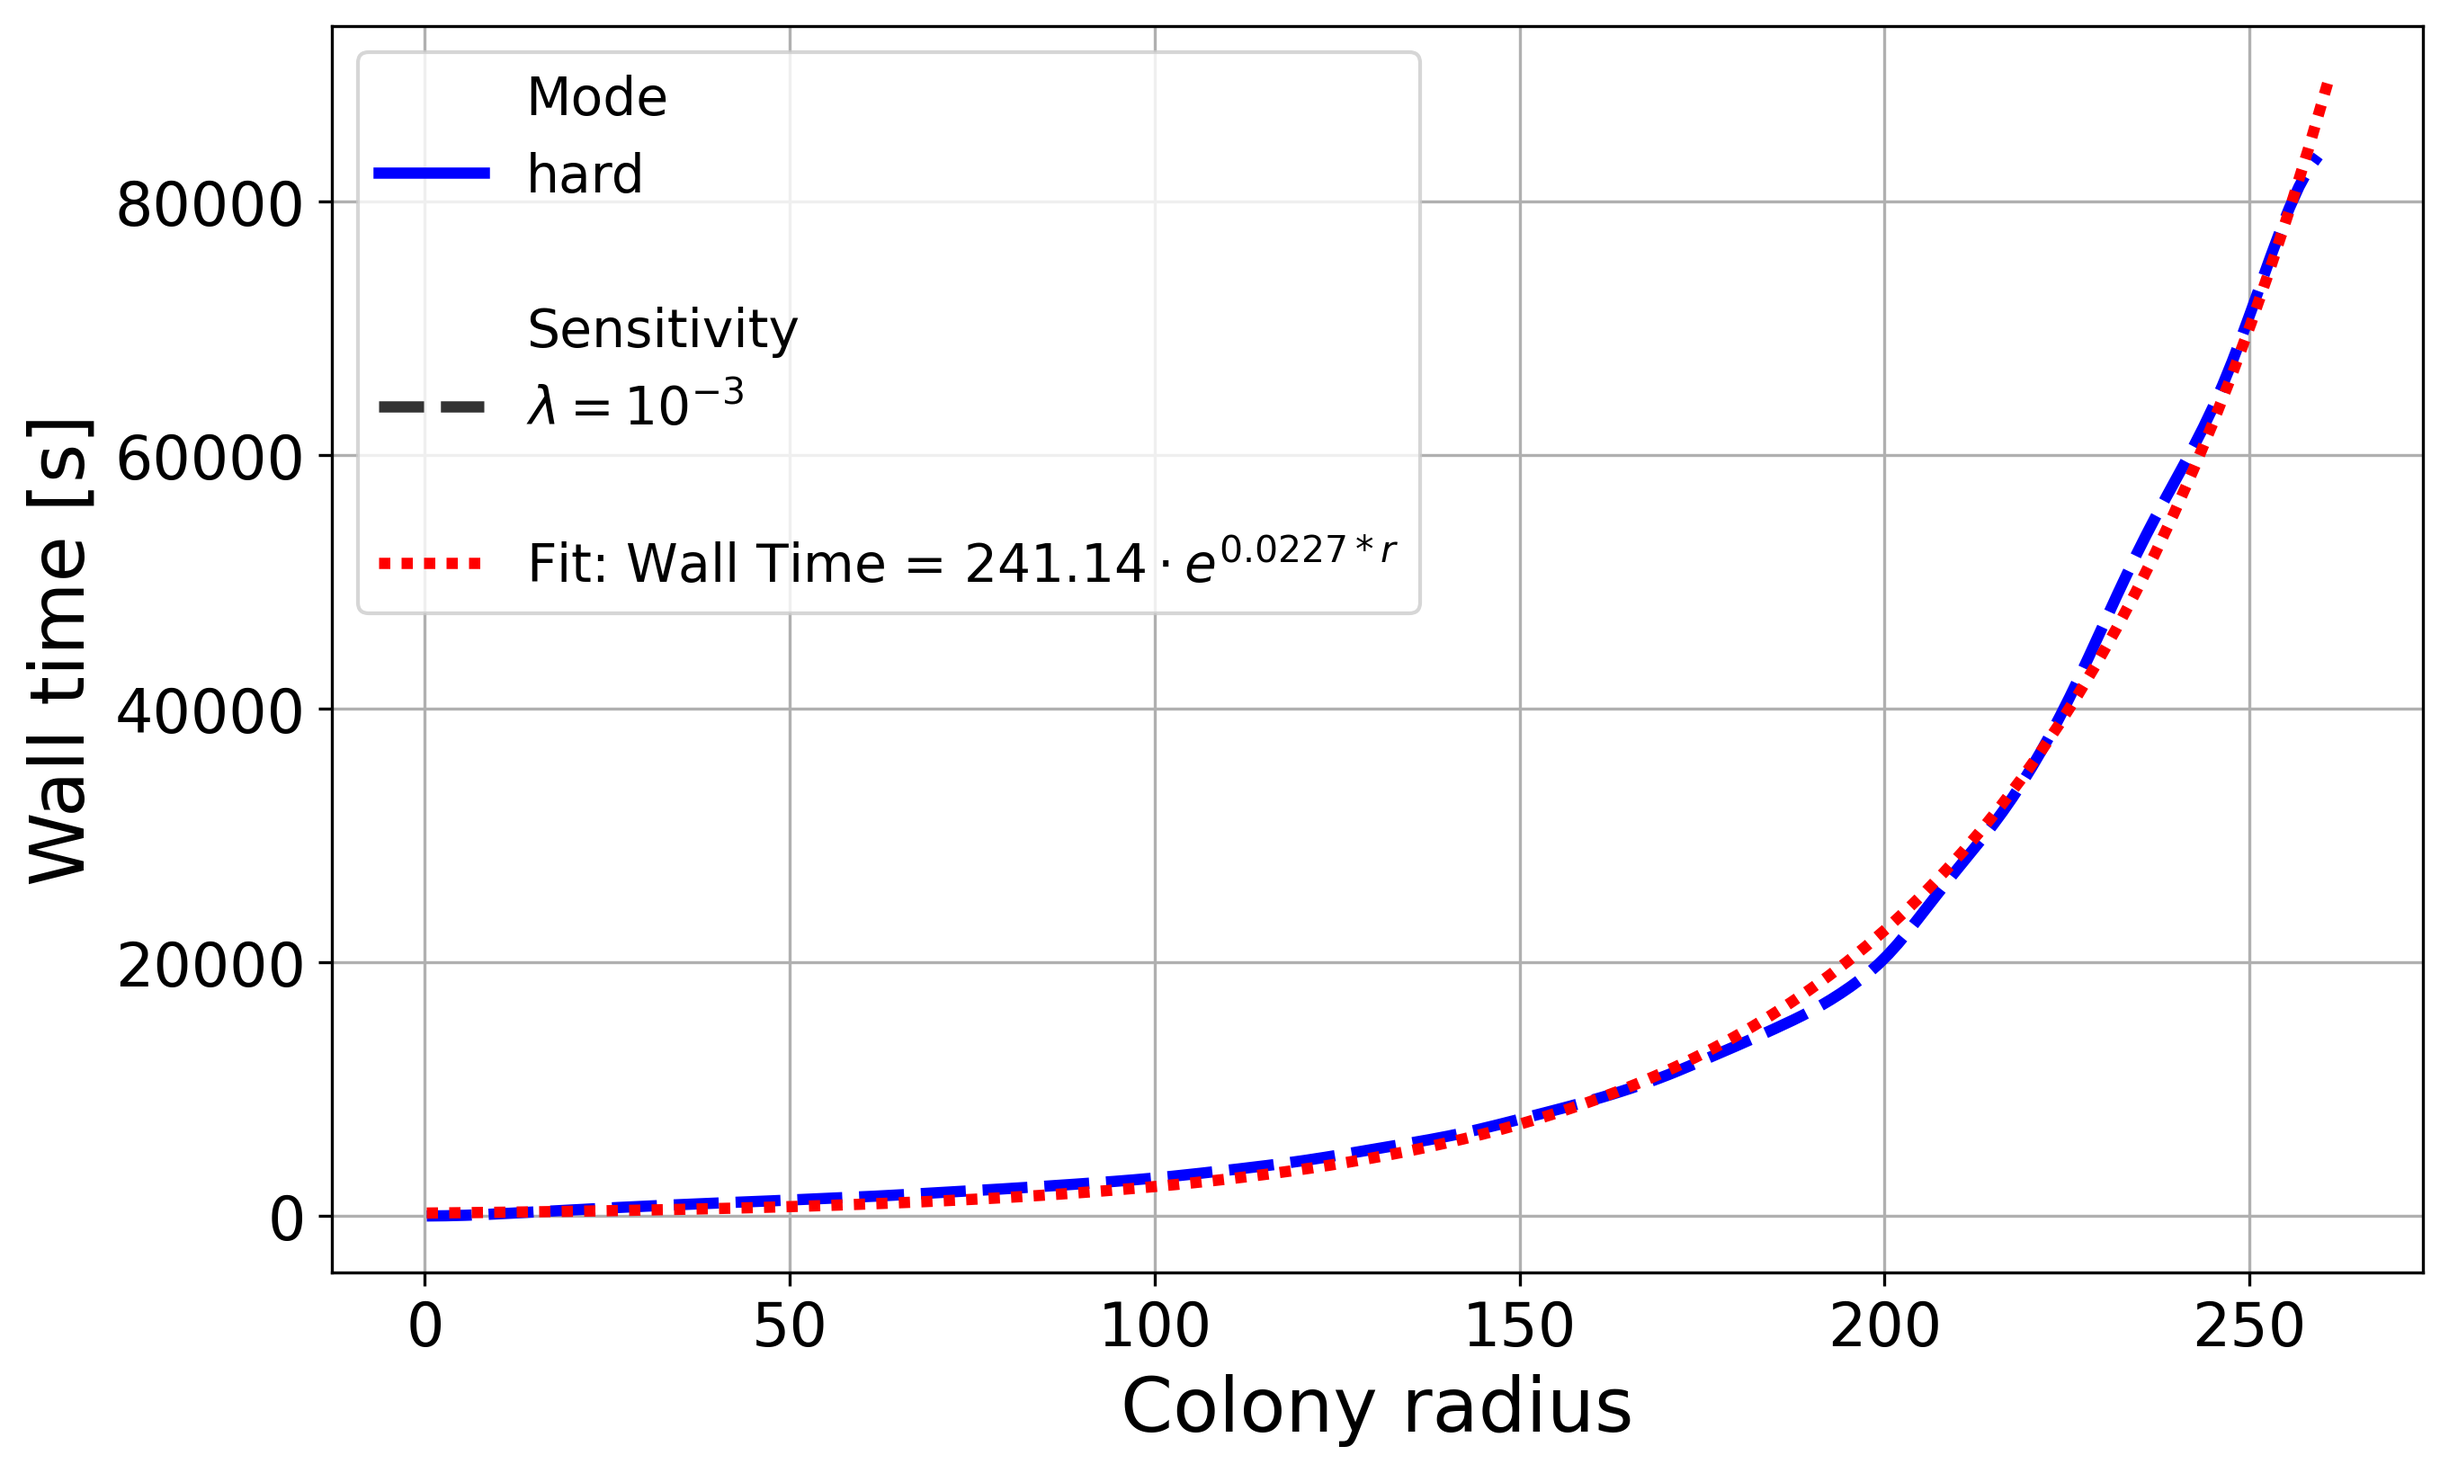
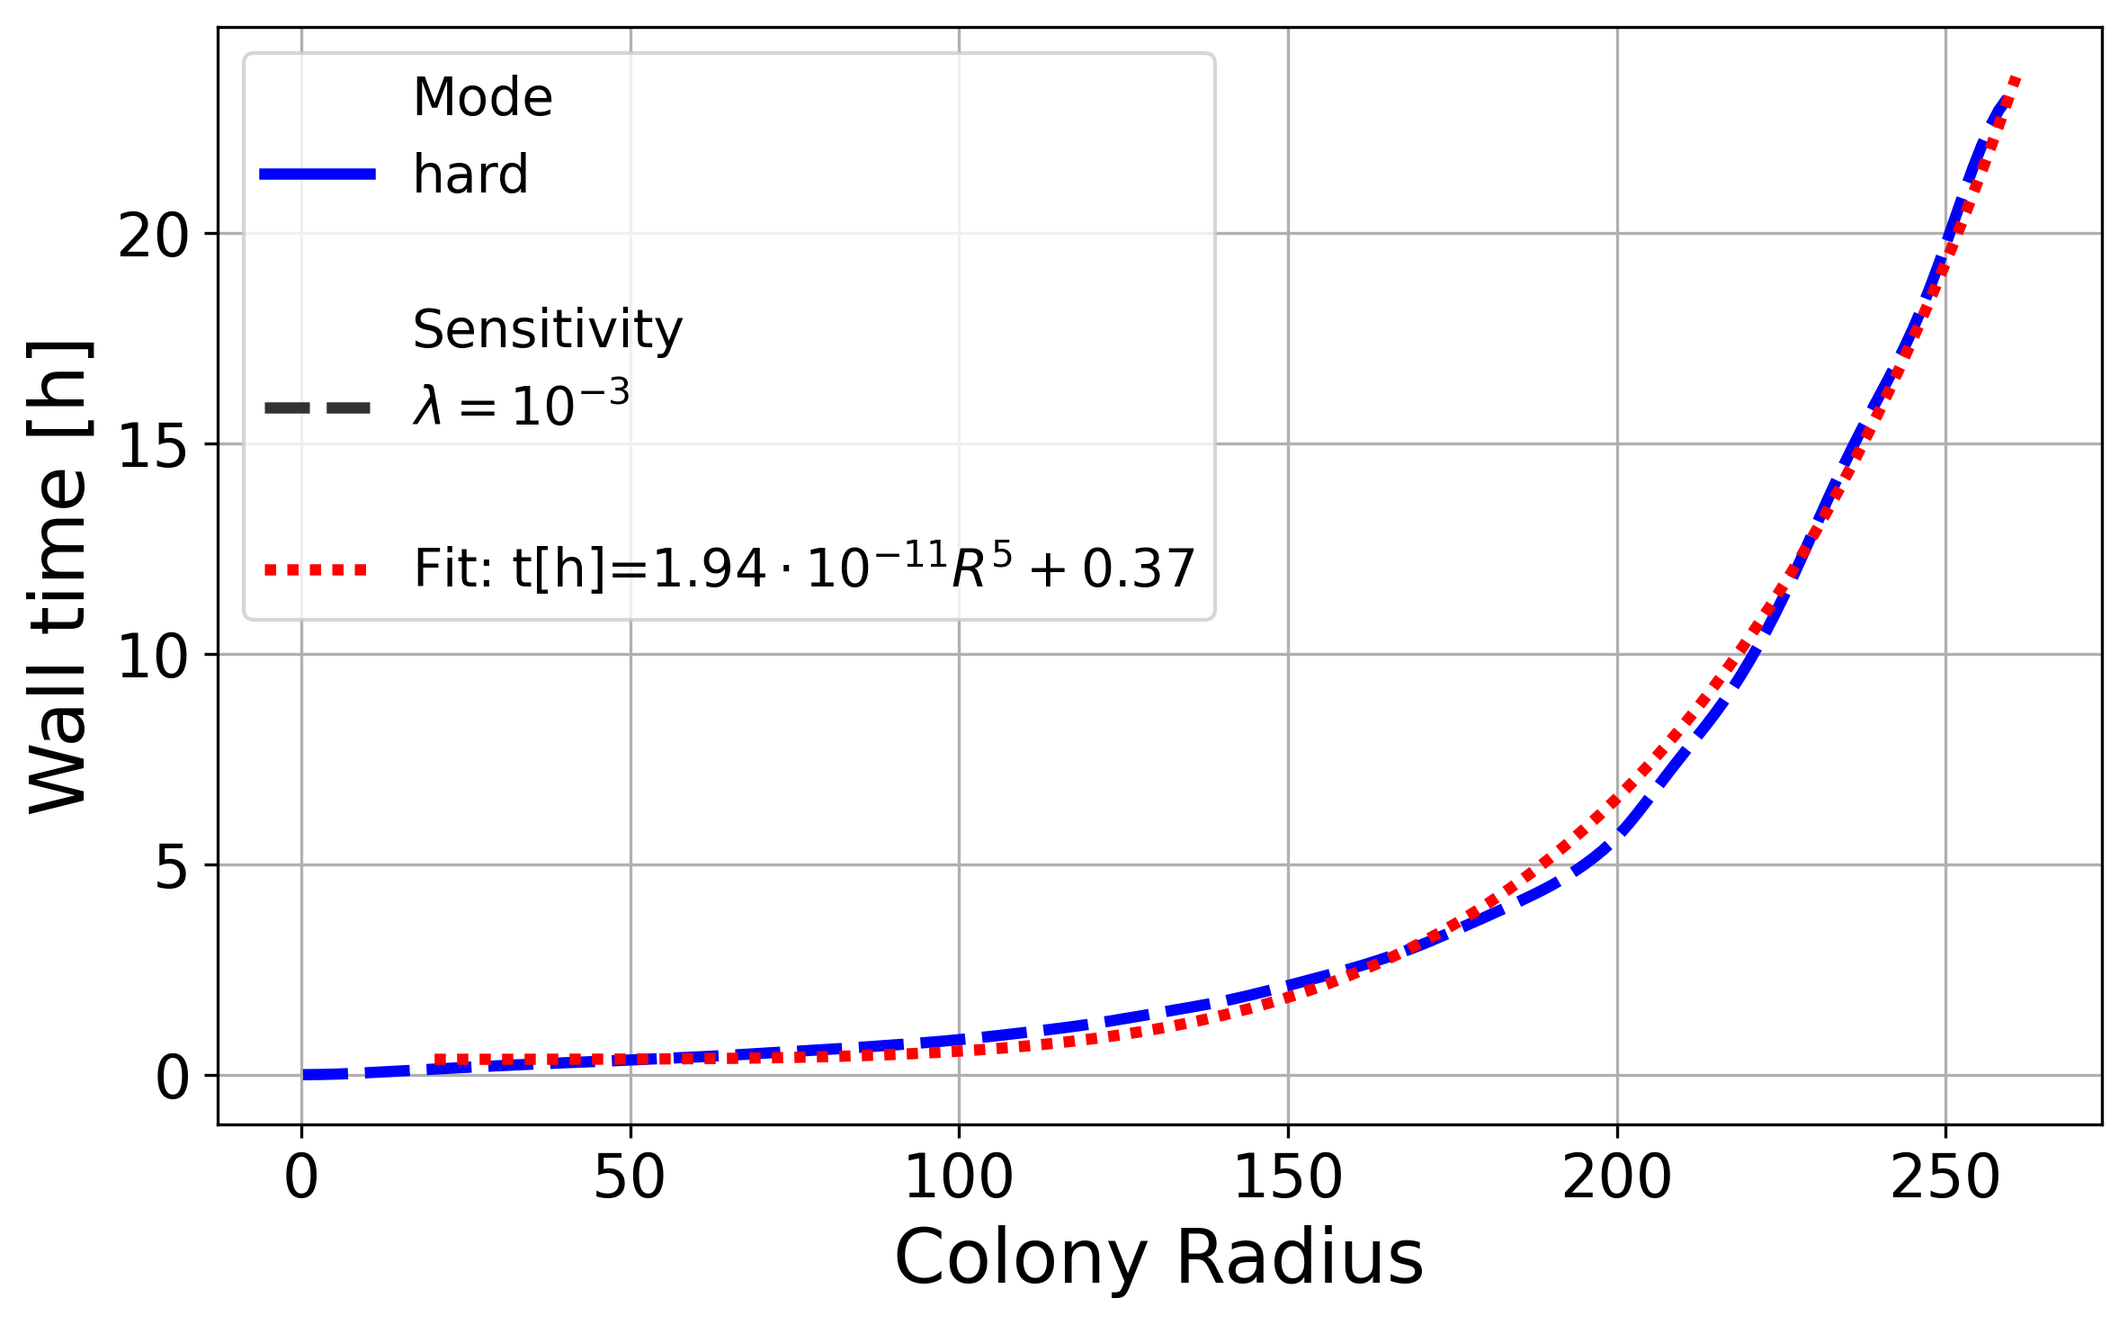
update wall time fit

diff --git a/latex/cell-collectives.tex b/latex/cell-collectives.tex
@@ -919,25 +919,22 @@ There remains considerable potential to further improve the performance of BBPGD
 \subsection{Maximum Attainable Colony Size}
 \label{sec:maximum_colony_size}
 
-In this section, we explore the largest colony sizes that can be simulated within a fixed computational budget of 24 hours on 112 CPU cores of the \texttt{CoolMUC-4} cluster, using a stress sensitivity of $\lambda = 10^{-3}$ to promote the emergence of characteristic radial wave patterns. At these extreme scales, only the hard model is considered, as the soft model suffers from severe overcrowding and excessive cell overlap, which renders its results physically unreliable.
+In this section, we explore the largest colony sizes that can be simulated within a fixed computational budget of 24 hours on 112 CPU cores of the \texttt{CoolMUC-4} cluster, using a stress sensitivity of $\lambda = 10^{-3}$. At these extreme scales, only the hard model is considered, as the soft model suffers from severe overcrowding and excessive cell overlap, which renders its results physically unreliable.
 
 \autoref{fig:huge_colony_hard} shows a representative snapshot of the hard model colony at its maximum simulated size of $R = 260$, corresponding to approximately 301{,}116 distinct bacterial cells. The colony displays well-defined concentric density bands and a smooth outer boundary, demonstrating that the solver, contact-handling scheme, and domain decomposition remain stable and physically consistent even at this extreme scale.
 
-The computational cost of reaching such large colonies is illustrated in \autoref{fig:huge_wall_time_vs_radius_with_fit}. The wall time increases exponentially with colony radius, following approximately
-\[
-    T_\text{wall}\,[\mathrm{s}] \approx 241\, e^{0.0227R}.
-\]
+The computational cost of reaching such colony sizes is summarized in \autoref{fig:huge_wall_time_vs_radius_with_fit}. The wall time grows rapidly with colony radius and closely follows a fifth-degree polynomial fit given by $T_\text{wall}\,[\mathrm{h}] \approx 1.94\cdot10^{-11}\,R^{5} + 0.37$. Since the number of particles scales approximately as $N \propto R^{2}$, this implies a total runtime scaling of $T_\text{wall}\,[\mathrm{h}] \propto N^{2.5}$.
 
-The solver workload is illustrated in \autoref{fig:huge_bbpgd_iterations_per_step_vs_num_particles}, which displays the number of BBPGD iterations per timestep. At this scale, each timestep requires resolving about 5{,}131{,}551 contact constraints, distributed across 8 ReLCP phases. The number of BBPGD iterations grows roughly linearly with the number of particles, following $\text{Iter}_{\text{BBPGD}} \approx 0.0267N$, although two pronounced spikes of up to 25{,}000 iterations occur during the simulation.
+The solver workload is illustrated in \autoref{fig:huge_bbpgd_iterations_per_step_vs_num_particles}, which displays the number of BBPGD iterations per timestep. At this scale, each timestep requires resolving about 5{,}131{,}551 contact constraints, distributed across 8 ReLCP phases. The number of BBPGD iterations grows roughly linearly with the number of particles, although two pronounced spikes of up to 25{,}000 iterations occur during the simulation.
 
-\autoref{fig:huge_mode_length_wavelengths} presents the radial distribution of the average cell length at $R = 260$. Clear wave-like patterns with a characteristic wavelength of $\lambda \approx 25$ are observed, corresponding to the radial ring spacing visible in \autoref{fig:huge_colony_hard}.
+\autoref{fig:huge_mode_length_wavelengths} presents the radial distribution of the average cell length at $R = 260$. Clear wave-like patterns with a characteristic wavelength of $\lambda \approx 25$ are observed, corresponding to the ring spacing visible in \autoref{fig:huge_colony_hard}.
 
 Finally, \autoref{fig:huge_combined_stress_shared} shows the corresponding radial stress distribution. In contrast to the results in \autoref{fig:radial_distribution_stress}, the simulated stress profile closely follows the analytical prediction of Weady et al.~\cite{Weady2024SM}, indicating that at this scale, the continuum assumptions are well satisfied and discretization noise is largely suppressed.
 
 \begin{figure}[h]
     \centering
     \includegraphics[width=\linewidth]{figures/huge/huge_wall_time_vs_radius_with_fit.png}
-    \caption{Wall time as a function of colony radius. The runtime increases exponentially with system size.}
+    \caption{Wall time as a function of colony radius. The wall time roughly follows $T_\text{wall}\,[\mathrm{h}] \approx 1.94\cdot10^{-11}\,R^{5} + 0.37$.}
     \label{fig:huge_wall_time_vs_radius_with_fit}
 \end{figure}
 
